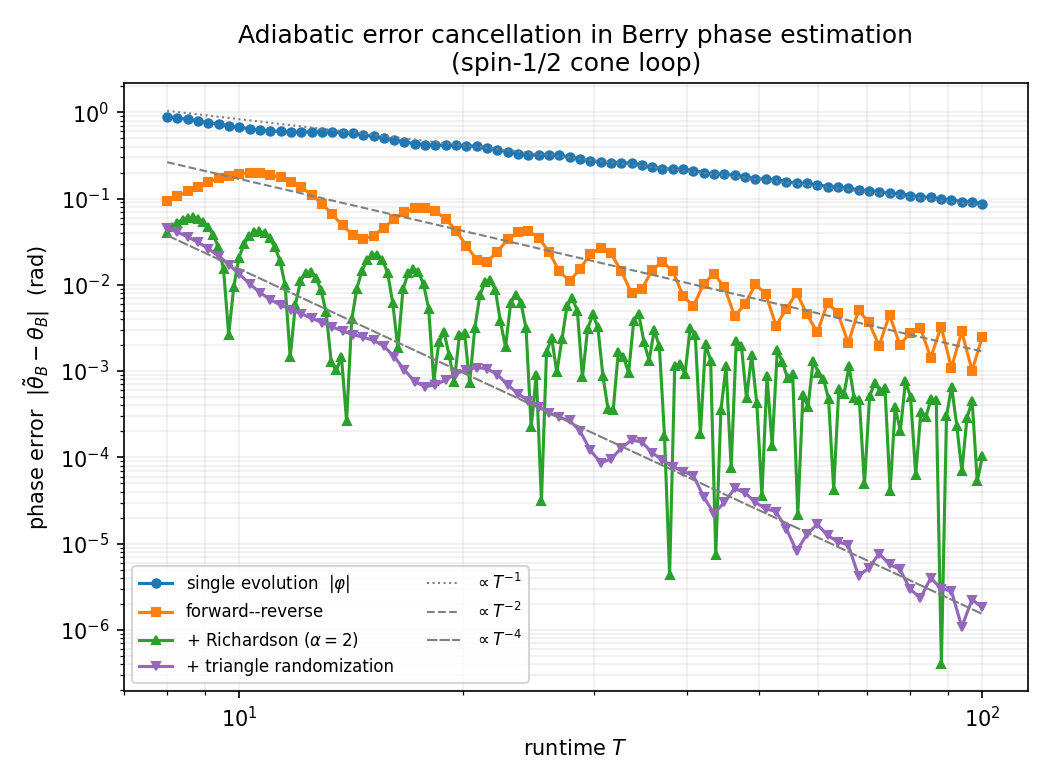
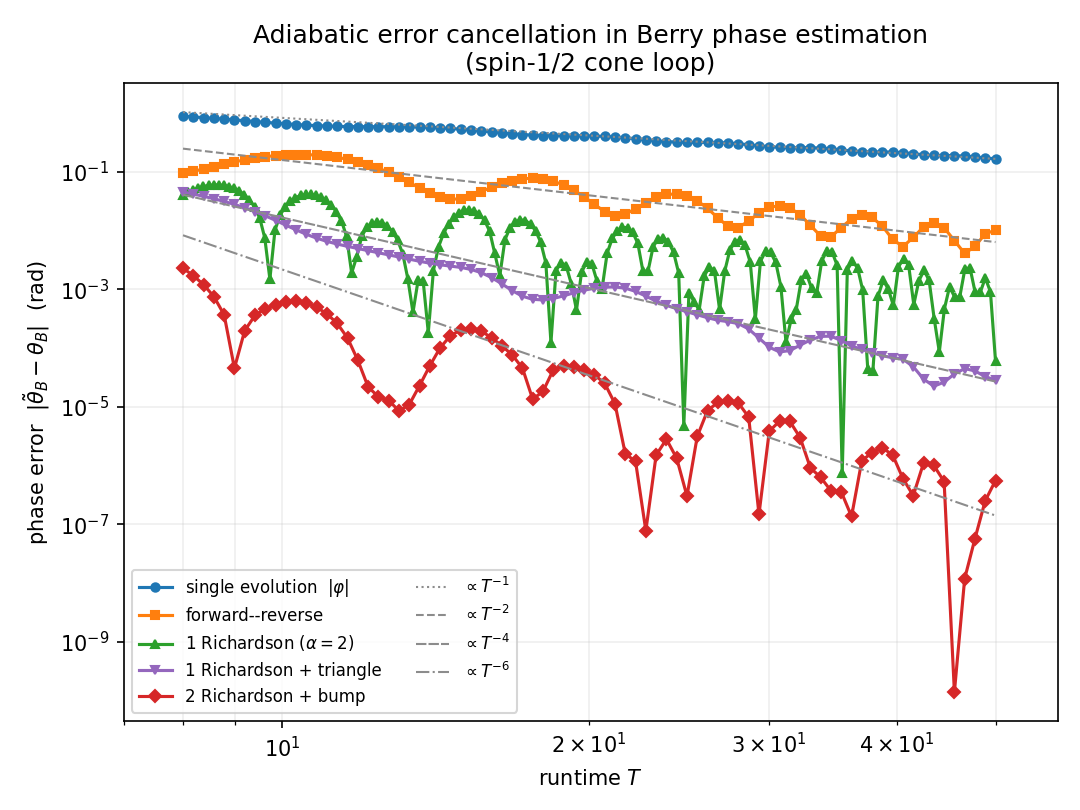
Recompose scaling plot: 5 curves up to T=50 (lam=0.5)
Curves: single (T^-1), forward-reverse (T^-2), 1 Richardson (T^-2),
1 Richardson + triangle (T^-4), 2 Richardson + bump (T^-6), with matching
reference lines anchored on the asymptotic half. Cap at T=50, lam=0.5.

Changed region(s): [[0.0305, 0.0308, 1.0, 0.9846], [0.4267, 0.7077, 0.5181, 0.8308]]

diff --git a/experiments/fig_scaling.py b/experiments/fig_scaling.py
@@ -1,11 +1,15 @@
-r"""Main figure: adiabatic error vs runtime ``T`` for the four estimators.
+r"""Main figure: adiabatic error vs runtime ``T`` on the spin-1/2 cone loop.
 
-Reproduces the central claim of the paper on the spin-1/2 cone loop:
+    single evolution                  ~ O(T^-1)
+    forward--reverse                  ~ O(T^-2)   (oscillatory)
+    1 Richardson                      ~ O(T^-2)   (oscillatory, smaller constant)
+    1 Richardson + triangle random.   ~ O(T^-4)
+    2 Richardson + bump  random.      ~ O(T^-6)   (large-T envelope)
 
-    single evolution         ~ O(T^-1)
-    forward--reverse         ~ O(T^-2)   (oscillatory)
-    + Richardson             ~ O(T^-2)   (oscillatory, smaller constant)
-    + runtime randomization  ~ O(T^-3)   (deterministic bias)
+All randomization uses lam = 0.5. Richardson cancels the non-oscillatory terms;
+a smoother runtime distribution suppresses the oscillatory residual faster (the
+triangle's CF ~ k^-2, the C^inf bump's faster than any power), and the bump only
+pays off once a second Richardson level has pushed the non-oscillatory floor down.
 
 Run with:  uv run python experiments/fig_scaling.py
 Writes:    figures/scaling.png
@@ -28,13 +32,16 @@ from berry_cancellation.estimators import (
 
 FIG_DIR = Path(__file__).resolve().parent.parent / "figures"
 
+LAM = 0.5
+T_MAX = 50.0
+
 
 def main() -> None:
     model = SpinHalfLoop()
     print(f"model: spin-1/2 cone loop, theta0={model.theta0:.4f}, "
           f"gap={model.gap}, theta_B={model.berry_phase:.6f}")
 
-    T = np.geomspace(8.0, 100.0, 80)
+    T = np.geomspace(8.0, T_MAX, 80)
     alpha = 2.0
 
     print("computing single-evolution phase error ...")
@@ -43,35 +50,40 @@ def main() -> None:
     e_fr = forward_reverse_error(model, T)
     print("computing Richardson error ...")
     # Richardson uses a doubly-dense grid to resolve its faster oscillation.
-    T_rich = np.geomspace(8.0, 100.0, 160)
+    T_rich = np.geomspace(8.0, T_MAX, 160)
     e_rich = richardson_error(model, T_rich, alpha=alpha)
-    # Runtime-randomized Richardson bias |E_X[theta_R] - theta_B| by quadrature.
-    # Richardson removes the non-oscillatory T^-2 term; averaging suppresses the
-    # oscillatory residual by the decay of the distribution's characteristic
-    # function: uniform (CF ~ k^-1) -> T^-3, triangle (CF ~ k^-2) -> T^-4.
-    print("computing runtime-randomized bias (triangle) ...")
-    e_rand_t = randomized_richardson_bias(model, T, alpha=alpha, lam=0.5,
-                                          levels=1, dist="triangle", n_nodes=129)
+    print("computing 1 Richardson + triangle randomization ...")
+    e_tri = randomized_richardson_bias(model, T, alpha=alpha, lam=LAM,
+                                       levels=1, dist="triangle", n_nodes=129)
+    print("computing 2 Richardson + bump randomization ...")
+    e_bump = randomized_richardson_bias(model, T, alpha=alpha, lam=LAM,
+                                        levels=2, dist="bump", n_nodes=129)
 
-    fig, ax = plt.subplots(figsize=(7.0, 5.2))
-    ax.loglog(T, e_single, "o-", ms=4, label=r"single evolution  $|\varphi|$")
-    ax.loglog(T, e_fr, "s-", ms=4, label=r"forward--reverse")
-    ax.loglog(T_rich, e_rich, "^-", ms=4, label=r"+ Richardson ($\alpha=2$)")
-    ax.loglog(T, e_rand_t, "v-", ms=4, color="C4",
-              label=r"+ triangle randomization")
+    fig, ax = plt.subplots(figsize=(7.2, 5.4))
+    ax.loglog(T, e_single, "o-", ms=4, color="C0",
+              label=r"single evolution  $|\varphi|$")
+    ax.loglog(T, e_fr, "s-", ms=4, color="C1", label=r"forward--reverse")
+    ax.loglog(T_rich, e_rich, "^-", ms=4, color="C2",
+              label=r"1 Richardson ($\alpha=2$)")
+    ax.loglog(T, e_tri, "v-", ms=4, color="C4",
+              label=r"1 Richardson + triangle")
+    ax.loglog(T, e_bump, "D-", ms=4, color="C3",
+              label=r"2 Richardson + bump")
 
-    # Reference power-law guides, anchored through the median of each (oscillatory)
-    # curve so the slope line sits in the data cloud rather than at an endpoint.
+    # Reference slopes, anchored through the median of each curve over the upper
+    # (more asymptotic) half so the guide sits on the data.
+    tail = T >= np.sqrt(8.0 * T_MAX)
     for power, e, style in [
         (-1, e_single, ":"),
         (-2, e_fr, "--"),
-        (-4, e_rand_t, (0, (5, 1))),
+        (-4, e_tri, (0, (5, 1))),
+        (-6, e_bump, "-."),
     ]:
-        c = np.median(e / T**power)
-        ax.loglog(T, c * T**power, color="0.5", lw=1.0, linestyle=style,
+        c = np.median(e[tail] / T[tail] ** power)
+        ax.loglog(T, c * T ** power, color="0.55", lw=1.0, linestyle=style,
                   label=rf"$\propto T^{{{power}}}$")
 
-    ax.set_xlim(7.0, 115.0)
+    ax.set_xlim(7.0, T_MAX * 1.15)
     ax.set_xlabel("runtime $T$")
     ax.set_ylabel(r"phase error  $|\tilde\theta_B - \theta_B|$  (rad)")
     ax.set_title("Adiabatic error cancellation in Berry phase estimation\n"

diff --git a/README.md b/README.md
@@ -13,6 +13,7 @@ step:
 | + Richardson (α=2) | `O(T⁻²)` | removes the non-oscillatory `T⁻²` part |
 | + uniform randomization | `O(T⁻³)` | averages out the oscillatory `T⁻²` residual (CF `~ k⁻¹`) |
 | + triangle randomization | `O(T⁻⁴)` | smoother distribution (CF `~ k⁻²`) suppresses it one power further |
+| 2 Richardson + bump randomization | `O(T⁻⁶)` | `C^∞` bump kills the oscillatory residual super-polynomially; the 2nd Richardson lowers the non-oscillatory floor to `T⁻⁶` |
 
 Here `T` is the runtime (slower sweep = larger `T` = smaller error).
 
@@ -93,11 +94,11 @@ uv run python experiments/fig_spin_half_check.py
 uv run pytest                               # checks references + scaling slopes
 ```
 
-`figures/scaling.png` is the headline plot: curves whose log–log envelopes follow
-`T⁻¹` (single), `T⁻²` (forward–reverse, Richardson), and `T⁻⁴` (triangle
-randomization). The forward–reverse and Richardson curves oscillate under their
-`T⁻²` envelope because the residual oscillates at frequency `ω = ∫Δ ds`; the
-triangle-distribution randomization averages this away to `T⁻⁴`. (Uniform
-randomization gives `T⁻³` — still oscillatory, since averaging only suppresses
-the oscillatory residual by one power; it is available via the `dist` argument
-but omitted from the plot.)
+`figures/scaling.png` is the headline plot (`T ∈ [8, 50]`, `λ = 0.5`): five curves
+whose log–log envelopes follow `T⁻¹` (single), `T⁻²` (forward–reverse and
+1 Richardson), `T⁻⁴` (1 Richardson + triangle randomization), and `T⁻⁶`
+(2 Richardson + bump randomization). The forward–reverse and Richardson curves
+oscillate under their `T⁻²` envelope because the residual oscillates at frequency
+`ω = ∫Δ ds`; a smoother runtime distribution averages this away faster. See
+`fig_distributions.py` for the uniform/triangle/bump comparison and the
+explanation of when a second Richardson level helps.